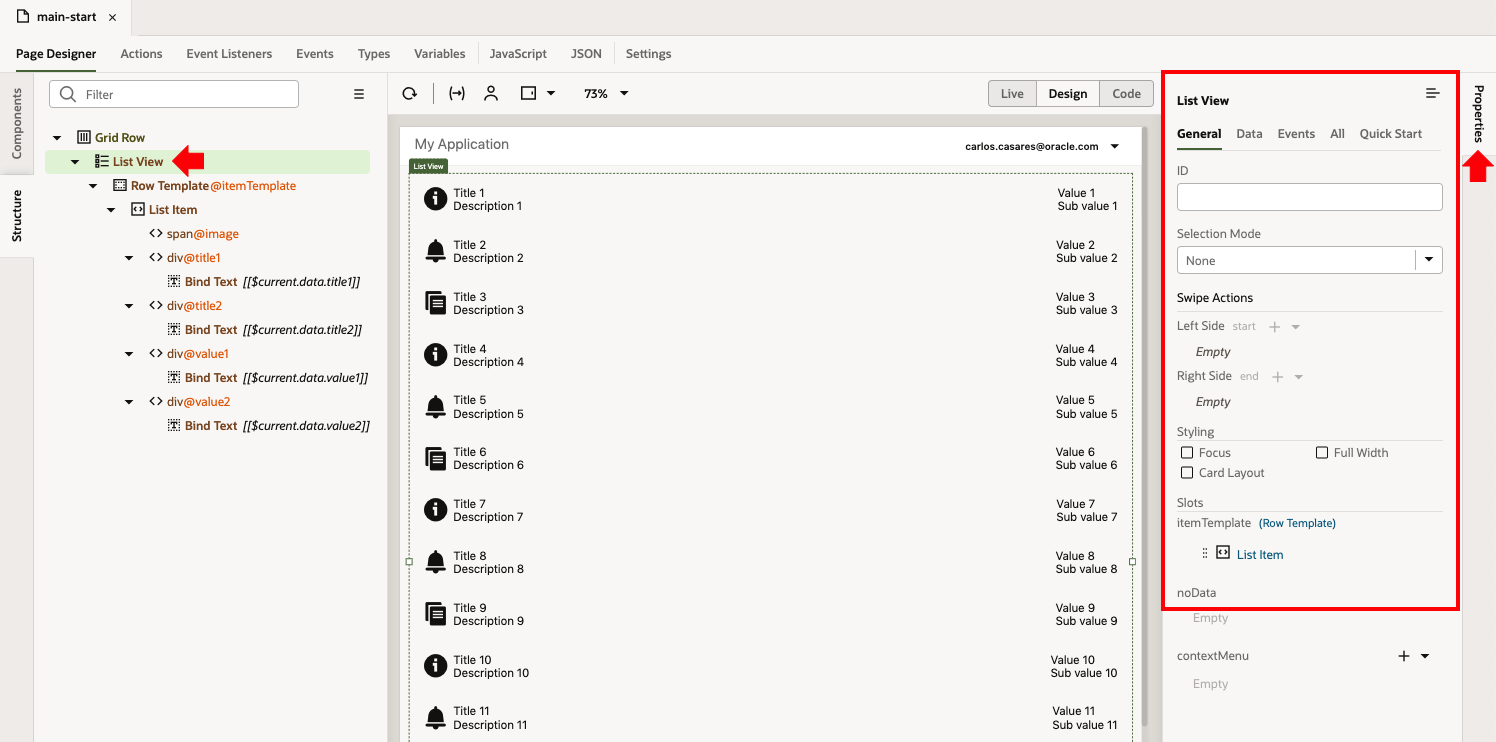
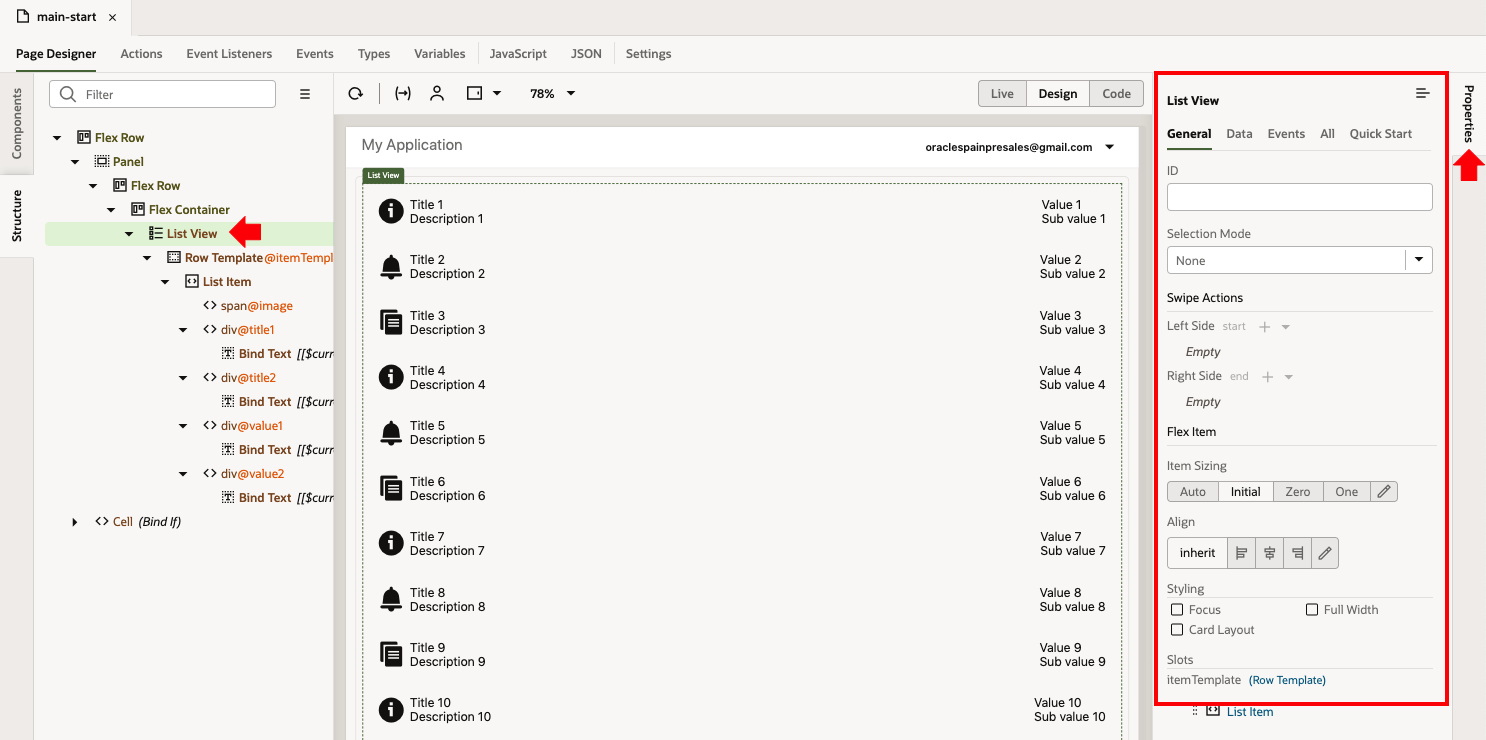
fix

diff --git a/workshops/visualbuilder/basic.md b/workshops/visualbuilder/basic.md
@@ -525,7 +525,11 @@ Inside the Top _Flex Row_ drag & drop an additional _Panel_ and, once done, make
 
 ![](workshops/visualbuilder/media/147.png)
 
-On this last _Flew Row_, change also the _Direction_ to `Vertical`, the _Align_ to `center` and _Wrap Items_ to `Don't Wrap`:
+On the First Panel, set the _Item Sizing_ to `Auto`:
+
+![](workshops/visualbuilder/media/154.png)
+
+On the last _Flew Row_, change also the _Direction_ to `Vertical`, the _Align_ to `center` and _Wrap Items_ to `Don't Wrap`:
 
 ![](workshops/visualbuilder/media/148.png)
 
@@ -555,17 +559,19 @@ We will set the condition later and, for now, we don't want this panel to be dis
 
 To display the deal information, we're going to use a `List` component.
 
-In the `Components` tab, scroll down until the `Collection` section and drag & drop the `List View` component into the canvas:
+First, let's add a new _Flex Container_ inside the First Panel's _Flex Row_ seeting its _Direction_ to `Vertical` and adding the _style_ `height:90%` to it:
+
+![](workshops/visualbuilder/media/152.png)
+
+![](workshops/visualbuilder/media/153.png)
+
+In the `Components` tab, scroll down until the `Collection` section and drag & drop the `List View` component into the just added _Flex Container_:
 
 ![](workshops/visualbuilder/media/82.png)
 
 ![](workshops/visualbuilder/media/83.png)
 
-Once added, you can review the page structure and hierarchy of the different components you keep adding. When you add a new component, you can drag & drop it to the canvas or to the structure tree to position it exactly where you want:
-
-![](workshops/visualbuilder/media/84.png)
-
-You can also view (and edit!) the HTML source code of the page by clicking the `Code` button:
+Once added, you can view (and edit!) the HTML source code of the page by clicking the `Code` button:
 
 ![](workshops/visualbuilder/media/85.png)
 
